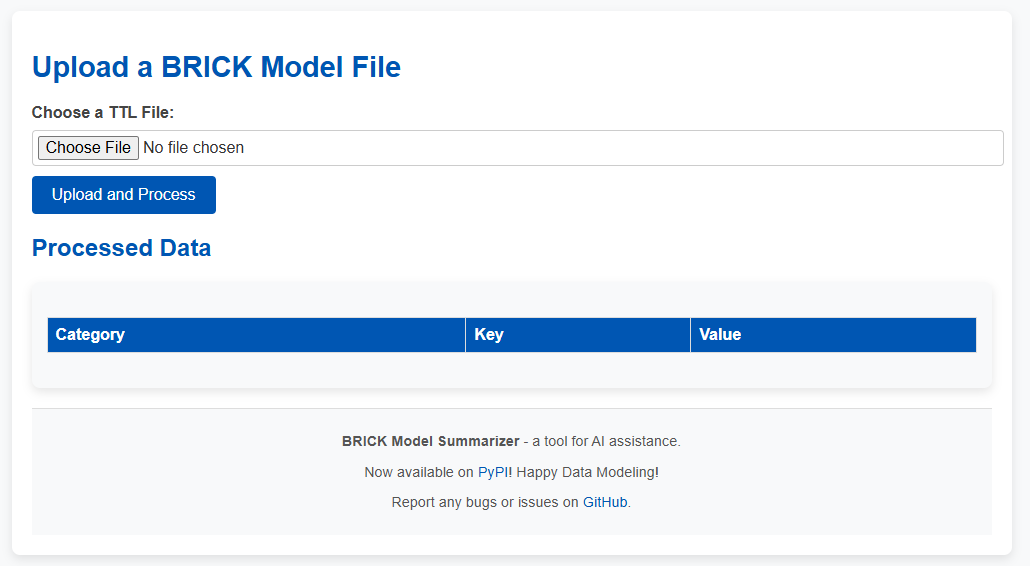
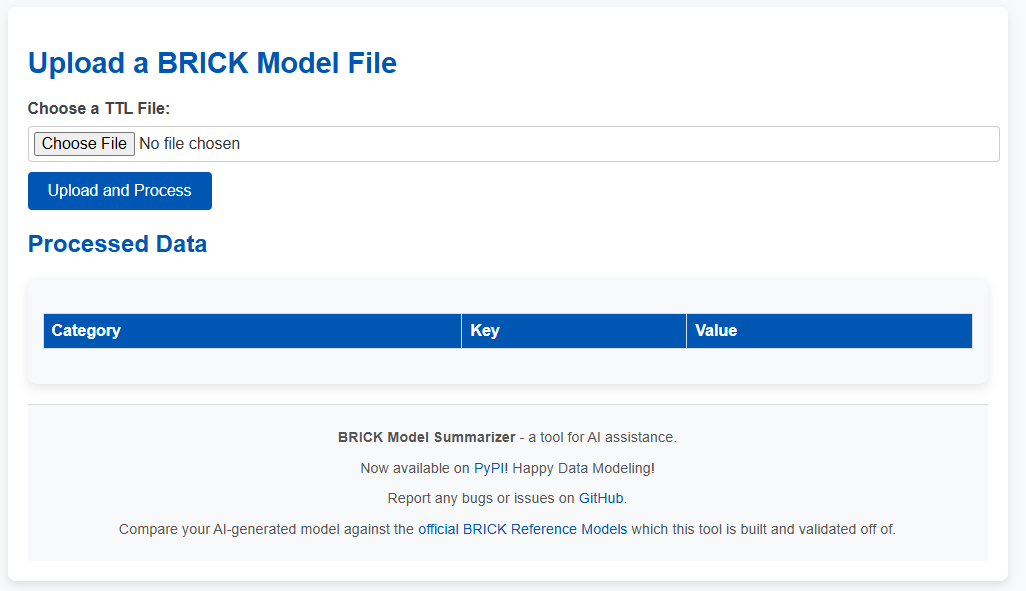
updated README

Changed region(s): [[0.0, 0.0901, 0.9669, 0.4505], [0.0312, 0.5106, 0.9669, 0.6307], [0.1248, 0.7208, 0.8733, 0.9311]]

diff --git a/flask_app/templates/upload.html b/flask_app/templates/upload.html
@@ -214,7 +214,15 @@
             <p><strong>BRICK Model Summarizer</strong> - a tool for AI assistance.</p>
             <p>Now available on <a href="https://pypi.org/project/brick-model-summarizer/" target="_blank">PyPI</a>! Happy Data Modeling!</p>
             <p>Report any bugs or issues on <a href="https://github.com/bbartling/BrickModelSummarizer" target="_blank">GitHub</a>.</p>
+            <p>
+                Compare your AI-generated model against the
+                <a href="https://brickschema.org/resources/#reference-brick-models" target="_blank">
+                    official BRICK Reference Models
+                </a> which this tool is built and validated off of.
+            </p>
         </div>
+
+
 
     </div>
 

diff --git a/README.md b/README.md
@@ -20,6 +20,12 @@ The primary purpose of this repository is to provide a framework for summarizing
 View a web app interface on Bens Pythonanywhere account for free!
 
 * https://bensapi.pythonanywhere.com/
+* Upload and process `.ttl` files to generate detailed BRICK model summaries.
+* Compare your AI-generated models with [official BRICK Reference Models](https://brickschema.org/resources/#reference-brick-models).
+* Easy-to-use web interface with support for `.ttl` file validation.
+
+![BRICK Model Summarizer Interface](https://github.com/bbartling/BrickModelSummarizer/blob/develop/flask_app/app_interface.png?raw=true)
+
 
 ## Installation
 ```bash
